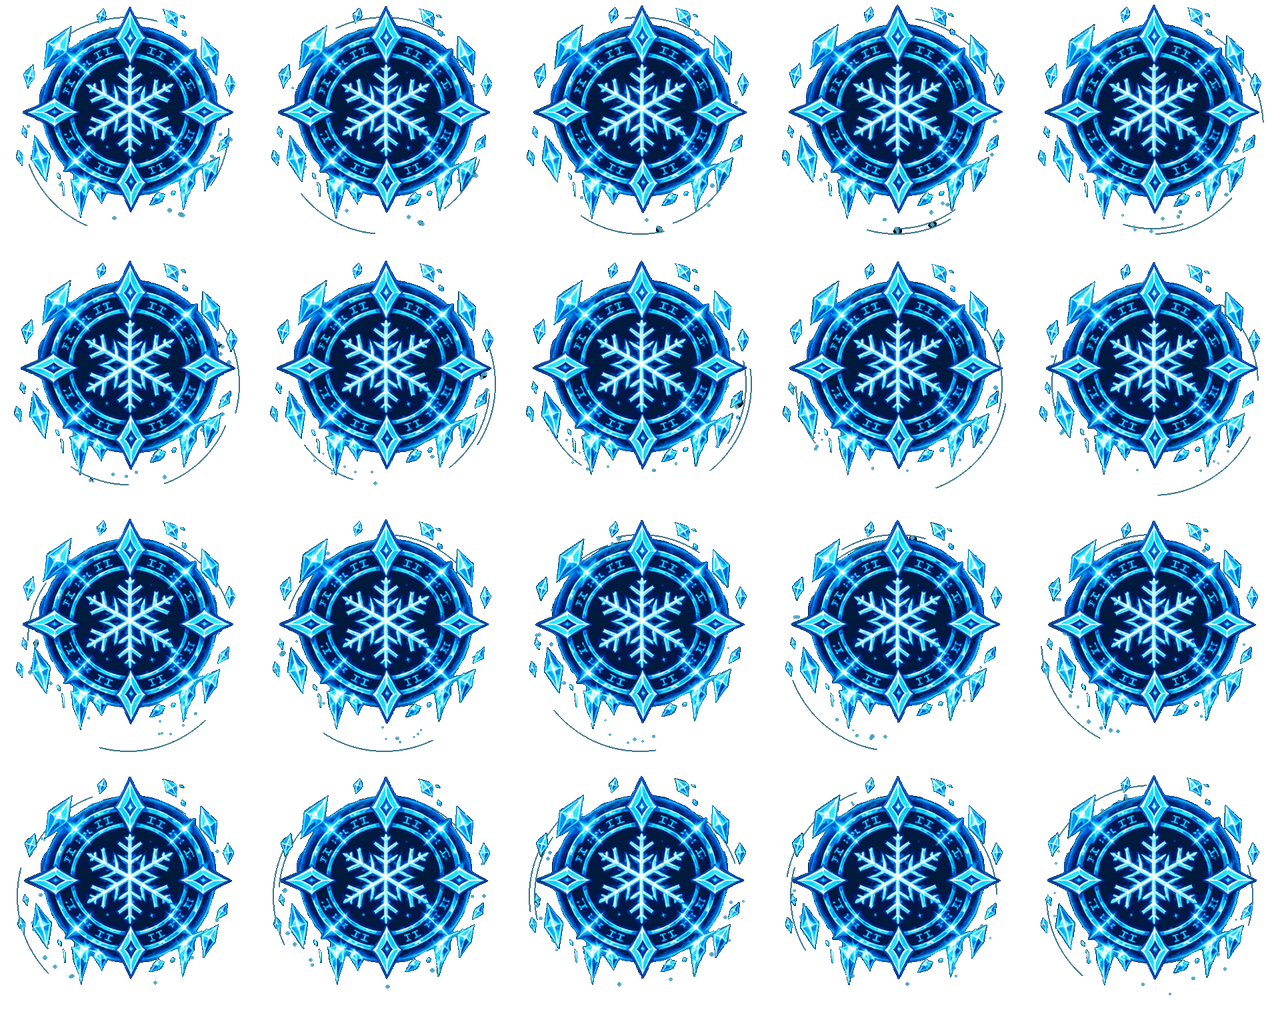
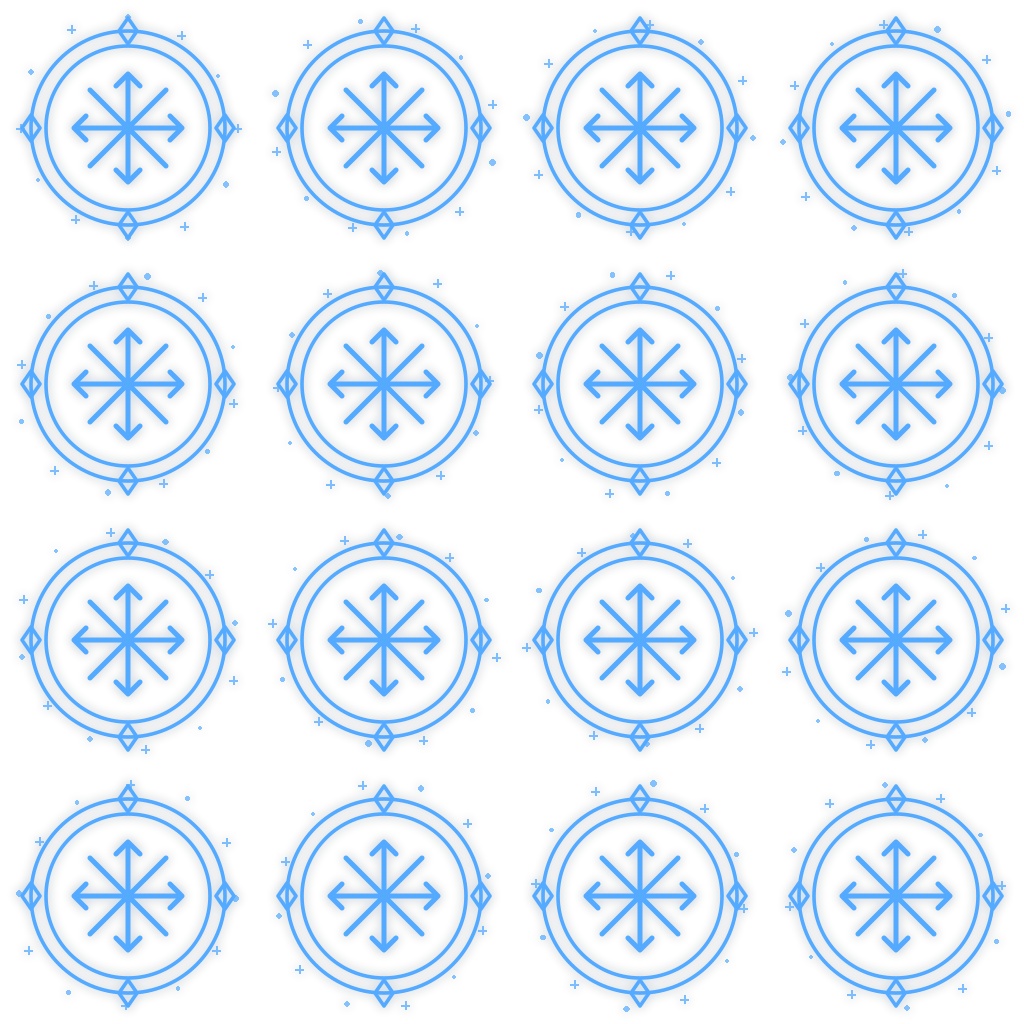
0.48.0: swap in the new elemental magic circle designs
16-frame 4x4 flipbook sheets at 11 fps replace the previous 20-frame set.

Claude-Session: https://claude.ai/code/session_017vvBCXX996RA4ZuXNKeqmX

diff --git a/CHANGELOG.md b/CHANGELOG.md
@@ -1,5 +1,14 @@
 # Changelog
 
+## 0.48.0 — New magic circle designs (2026-11-05)
+
+- **Magic circles:** replaced all twelve circle designs with the new elemental set: a clean
+  double ring with diamond points around a glowing element symbol (a flame, a snowflake, a
+  thundercloud, a sprout, a four-point star, a crescent moon, a water drop, gusts of wind,
+  mountains, an anvil, a spiral and an hourglass). Each one animates on a 16-frame loop.
+  They still appear in the same places: at the hand, growing while you charge, on the ground
+  under area spells and at Mr. Justice's feet for wards, heals and teleports.
+
 ## 0.47.0 — Magic circles (2026-11-05)
 
 - **Magic circles:** every spell now opens an animated magic circle where it is cast, drawn
